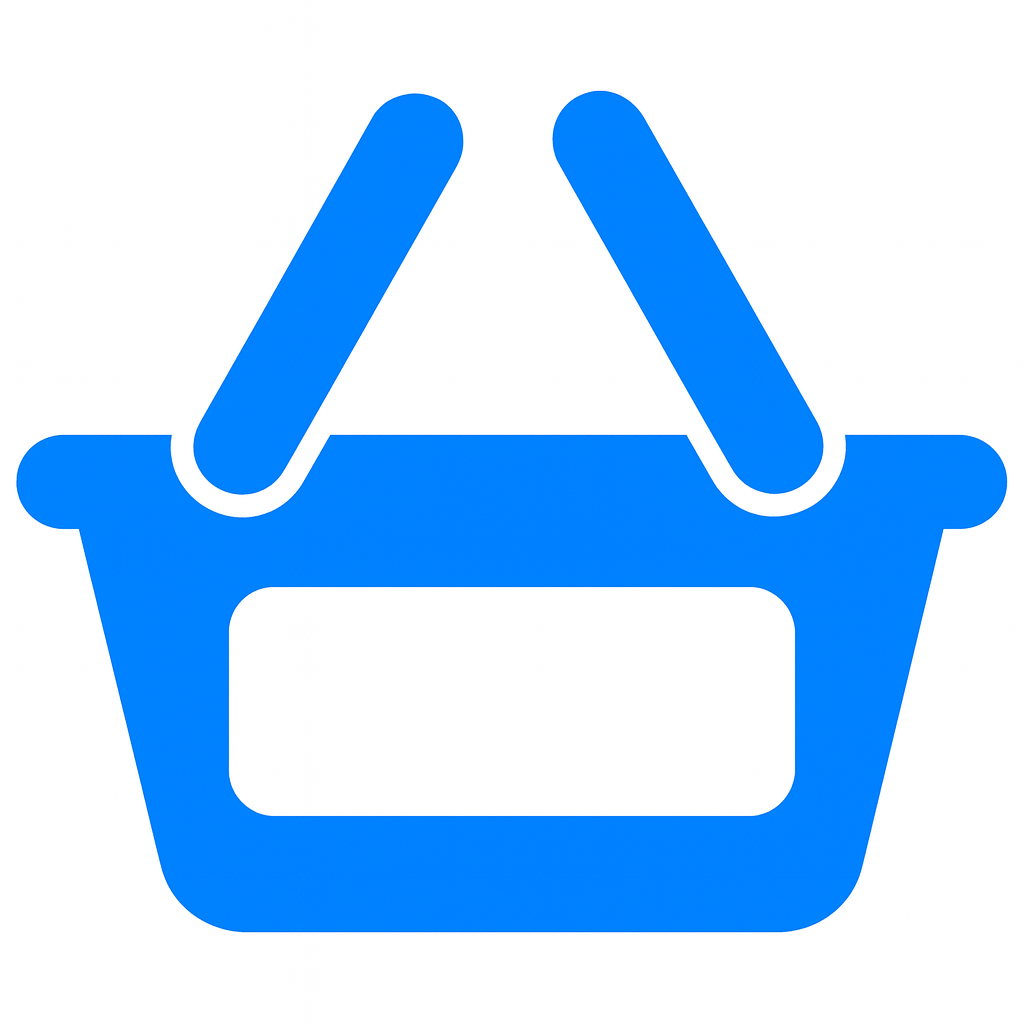
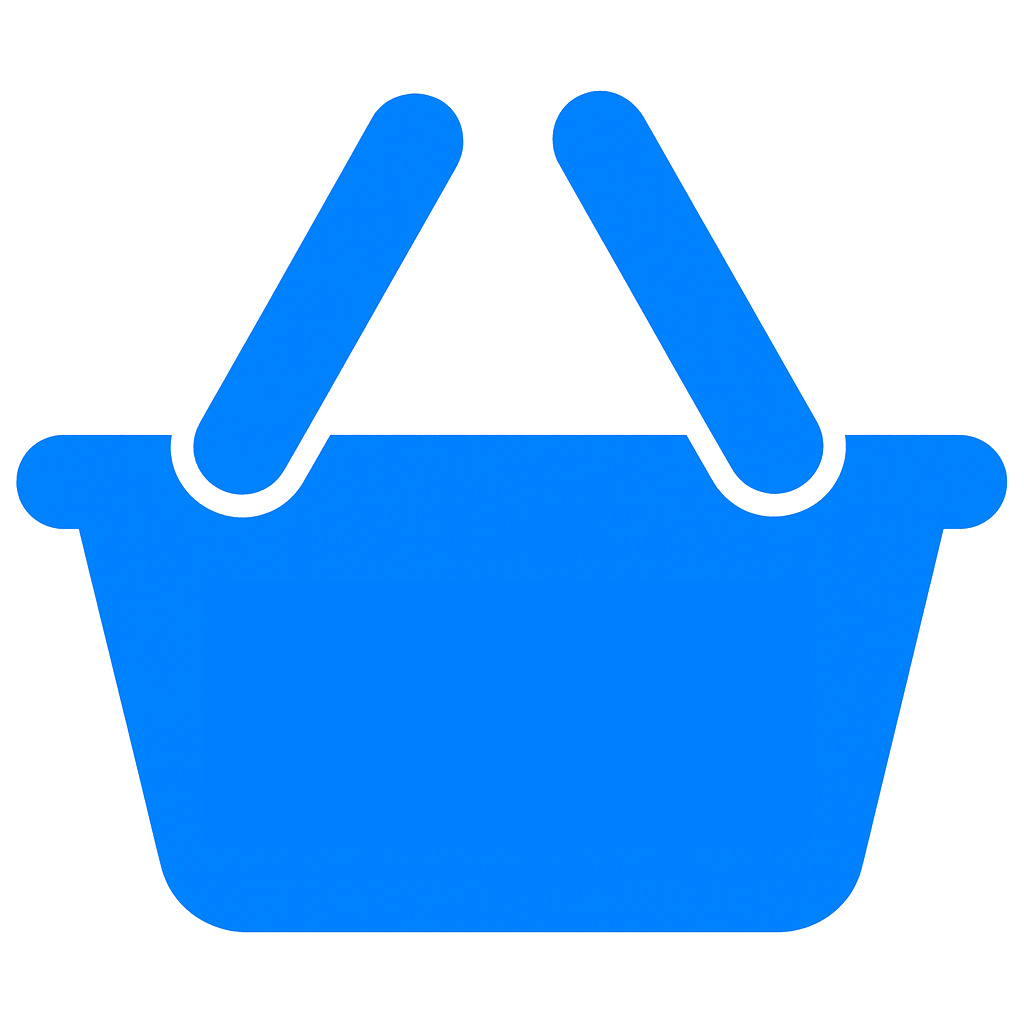
added dark mode

Changed region(s): [[0.2188, 0.5625, 0.7812, 0.8125]]

diff --git a/public/css/navbar.css b/public/css/navbar.css
@@ -1,4 +1,5 @@
 /* NAVBAR WRAPPER */
+
 .navbar {
   display: flex;
   flex-direction: column;            /* stack rows */
@@ -130,7 +131,7 @@
 }
 
 .search-btn {
-  background: #000;
+  background: #0055c0;
   border: none;
   padding: 18px 18px;
   border-radius: 0 22px 22px 0;
@@ -139,13 +140,26 @@
   justify-content: center;
 }
 
-.search-icon { width: 20px; }
+.search-icon {  
+    width: 20px; 
+    height: auto;
+    display: block;
+    transform: scale(1.5); 
+    transform-origin: center; }
 
-.signin {
-  color: #0055c0;
-  text-decoration: none;
-  font-size: 15px;
-  font-weight: 500;
+.signin-btn {
+    display: inline-block;
+    padding: 6px 12px;
+    background-color: #0055c0; 
+    color: #fff;
+    font-weight: 600;
+    font-size: 15px;
+    border-radius: 6px;
+    text-decoration: none;
+}
+
+.signin-btn:hover {
+    background-color: #0044a0; 
 }
 
 .user-dropdown {
@@ -223,7 +237,7 @@
     left: 50%;
     transform: translate(-50%, -50%);
     background: transparent;
-    color: #0055c0;
+    color: #ffffff;
     font-size: 13px;
     font-weight: bold;
     pointer-events: none;
@@ -290,4 +304,132 @@ body { font-family: 'Poppins', sans-serif; }
   .nav-right { justify-content: center; }
   .search-container { max-width: 100%; }
   .nav-links { gap: 20px; flex-wrap: wrap; }
+}
+  /* DARK MODE */
+body.dark-mode {
+    background-color: #020020;
+    color: #ffffff;
+}
+
+/* NAVBAR */
+body.dark-mode .navbar {
+    background-color: #06013a;
+}
+
+
+/* NAVBAR LINKS */
+body.dark-mode .nav-links a,
+body.dark-mode .signin,
+body.dark-mode .user-btn {
+    color: #ffffff;
+}
+
+/* SEARCH BAR */
+body.dark-mode .search-input {
+    background-color: #ffffff;
+    color: #ffffff;
+    border: 1px solid #444;
+}
+
+body.darkmode .search
+
+/* DROPDOWN */
+body.dark-mode .category-dropdown {
+    background-color: #2a2a2a;
+}
+
+/* HERO */
+body.dark-mode .hero {
+    background-color: #08005f; 
+    color: #ffffff;            
+}
+/* CATEGORIES */
+body.dark-mode .categories-section {
+    background-color: #010c35; 
+    color: #ffffff;    
+}
+
+body.dark-mode .categories-section h2{
+     color: #ffffff; 
+}
+
+body.dark-mode .cat span {
+    color: #ffffff; 
+}
+
+body.dark-mode .products-section{
+ background-color: #000413; 
+}
+
+body.dark-mode .features-section{
+ background-color: #000413; 
+}
+
+
+/* FOOTER */
+body.dark-mode .footer {
+    background-color: #06013a;
+    color: #cccccc;
+}
+
+body.dark-mode .footer .copyright{
+     color: #0055c0
+}
+
+body.dark-mode .team p{
+     color: #d1cfcf
+}
+
+/* Dark Mode Toggle Button */
+.darkmode-btn {
+    background-color: #0055c0;      
+    color: #fff;                     
+    border: none;
+    border-radius: 22px;             
+    padding: 10px 16px;             
+    font-size: 16px;                 
+    cursor: pointer;
+    display: flex;
+    align-items: center;
+    justify-content: center;
+
+}
+
+/* Hover effect */
+.darkmode-btn:hover {
+    background-color: #0044a0;
+    transform: scale(1.05);
+}
+
+/* Dark mode appearance */
+body.dark-mode .darkmode-btn {
+    background-color: #0055c0;
+    color: #fff;
+}
+
+body.dark-mode .darkmode-btn:hover {
+    background-color: #444;
+}
+
+/* Products Page */
+
+body.dark-mode .filters h3{
+    color: #ffffff;
+}
+
+
+body.dark-mode .filters {
+    background-color: #0044a0;
+}
+
+body.dark-mode .filter-group h4 {
+    color: #ffffff;
+}
+
+body.dark-mode .filter-group a {
+    color: #ffffff;
+}
+
+body.dark-mode .product-results h2 {
+      color: #ffffff;
 }

diff --git a/resources/views/layouts/app.blade.php b/resources/views/layouts/app.blade.php
@@ -8,6 +8,7 @@
     <link rel="preconnect" href="https://fonts.googleapis.com">
     <link rel="preconnect" href="https://fonts.gstatic.com" crossorigin>
     <link href="https://fonts.googleapis.com/css2?family=Montserrat:wght@700&family=Poppins:wght@300;400;500;600&display=swap" rel="stylesheet">
+    <link rel="stylesheet" href="https://cdnjs.cloudflare.com/ajax/libs/font-awesome/6.4.2/css/all.min.css" integrity="sha512-..." crossorigin="anonymous" referrerpolicy="no-referrer" /> 
 
     <link rel="stylesheet" href="{{ asset('css/alerts.css') }}">
     <link rel="stylesheet" href="{{ asset('css/contact.css') }}">
@@ -58,7 +59,10 @@
                 @if(Auth::guard('admin')->check())
                     <a href="{{ route('admin.inventory.index') }}" style="color:#0055c0;text-decoration:none;font-weight:600;font-size:15px;">Admin</a>
                 @endif
-                
+                 <!-- DARK MODE BUTTON -->
+                  <button id="darkModeToggle" class="darkmode-btn" aria-label="Toggle Dark Mode">
+                  <i class="fas fa-moon"></i> <!-- initial icon -->
+                  </button>
                 @auth
                     <div class="nav-item user-dropdown">
                         <button class="user-btn">
@@ -76,9 +80,10 @@
                     </div>
                 @else
                     <div class="nav-item">
-                        <a class="signin" href="{{ route('auth.login') }}">Sign In</a>
+                        <a href="{{ route('auth.login') }}" class="signin-btn">Sign In</a>
                     </div>
                 @endauth
+            
 
                 <a href="{{ route('basket.view') }}" class="basket-link">
                     <div class="basket-wrapper">
@@ -160,62 +165,62 @@
         </p>
     </footer>
 
-    <script>
-        document.addEventListener('DOMContentLoaded', function() {
-            const categoryBtn = document.getElementById('categoryBtn');
-            const categoryDropdown = document.getElementById('categoryDropdown');
-            const categoryOptions = document.querySelectorAll('.category-option');
-            const categoryText = document.querySelector('.category-text');
-            const categoryInput = document.getElementById('categoryInput');
+      <script>
+document.addEventListener('DOMContentLoaded', function() {
 
-            // Toggle dropdown on button click
-            categoryBtn.addEventListener('click', function(e) {
-                e.stopPropagation();
-                categoryDropdown.style.display = categoryDropdown.style.display === 'none' ? 'block' : 'none';
-            });
+    // CATEGORY DROPDOWN (keep your existing code)
+    const categoryBtn = document.getElementById('categoryBtn');
+    const categoryDropdown = document.getElementById('categoryDropdown');
+    const categoryOptions = document.querySelectorAll('.category-option');
+    const categoryText = document.querySelector('.category-text');
+    const categoryInput = document.getElementById('categoryInput');
 
-            // Handle category selection
-            categoryOptions.forEach(option => {
-                option.addEventListener('click', function(e) {
-                    e.stopPropagation();
-                    const value = this.getAttribute('data-value');
-                    const name = this.getAttribute('data-name');
-                    categoryText.textContent = name;
+    categoryBtn.addEventListener('click', function(e) {
+        e.stopPropagation();
+        categoryDropdown.style.display =
+            categoryDropdown.style.display === 'none' ? 'block' : 'none';
+    });
 
-                    // Set the hidden form field for search
-                    if (value === 'all') {
-                        categoryInput.value = '';
-                    } else {
-                        categoryInput.value = value;
-                    }
+    categoryOptions.forEach(option => {
+        option.addEventListener('click', function(e) {
+            e.stopPropagation();
+            const value = this.getAttribute('data-value');
+            const name = this.getAttribute('data-name');
+            categoryText.textContent = name;
+            categoryInput.value = (value === 'all') ? '' : value;
 
-                    sessionStorage.setItem('selectedCategory', value);
-                    sessionStorage.setItem('selectedCategoryName', name);
-                    categoryDropdown.style.display = 'none';
-                });
-            });
-
-            // Restore selected category on page load
-            const savedCategory = sessionStorage.getItem('selectedCategoryName');
-            const savedCategoryId = sessionStorage.getItem('selectedCategory');
-            if (savedCategory) {
-                categoryText.textContent = savedCategory;
-                if (savedCategoryId && savedCategoryId !== 'all') {
-                    categoryInput.value = savedCategoryId;
-                } else {
-                    categoryInput.value = '';
-                }
-            }
-
-            // Close dropdown when clicking outside
-            document.addEventListener('click', function(e) {
-                if (!document.querySelector('.category').contains(e.target)) {
-                    categoryDropdown.style.display = 'none';
-                }
-            });
+            sessionStorage.setItem('selectedCategory', value);
+            sessionStorage.setItem('selectedCategoryName', name);
+            categoryDropdown.style.display = 'none';
         });
-    </script>
+    });
+
+    document.addEventListener('click', function(e) {
+        if (!document.querySelector('.category').contains(e.target)) {
+            categoryDropdown.style.display = 'none';
+        }
+    });
+
+    // DARK MODE
+    const toggleBtn = document.getElementById('darkModeToggle');
+    if (!toggleBtn) return;
+
+    // Load dark mode preference
+    if (localStorage.getItem('darkMode') === 'enabled') {
+        document.body.classList.add('dark-mode');
+        toggleBtn.innerHTML = '<i class="fas fa-sun"></i>';
+    }
+
+    // Toggle dark mode
+    toggleBtn.addEventListener('click', function() {
+        document.body.classList.toggle('dark-mode');
+        const isDark = document.body.classList.contains('dark-mode');
+        localStorage.setItem('darkMode', isDark ? 'enabled' : 'disabled');
+        toggleBtn.innerHTML = isDark ? '<i class="fas fa-sun"></i>' : '<i class="fas fa-moon"></i>';
+    });
+
+});
+</script>
 
 </body>
-
 </html>
